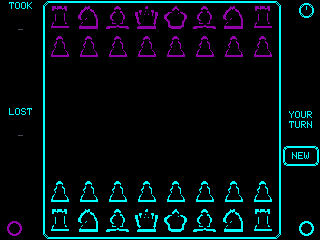
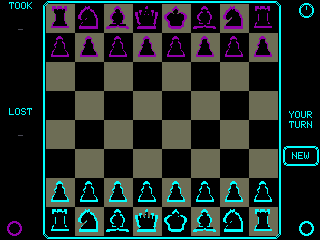
Stable: revert board color, 8-bit RGB332 capture

Changed region(s): [[0.125, 0.0, 0.875, 0.9917]]

diff --git a/screenshot.py b/screenshot.py
@@ -181,7 +181,7 @@ def capture(port, screen, outfile):
 
         ser.write(b"S")
         ser.flush()
-        marker, _ = wait_for_marker(ser, [b"RGB565:", b"OOM:"], timeout=20)
+        marker, _ = wait_for_marker(ser, [b"RGB332:", b"OOM:"], timeout=20)
 
         if marker is None:
             raise RuntimeError("No screenshot response from device.")
@@ -190,7 +190,7 @@ def capture(port, screen, outfile):
             raise RuntimeError(f"Device out of RAM: {info}")
 
         start = time.time()
-        total = W * H * 2  # 16-bit per pixel
+        total = W * H
         data = read_exact(ser, total)
         if len(data) < total:
             raise RuntimeError(f"Transfer stalled at {len(data)}/{total} bytes.")
@@ -199,18 +199,15 @@ def capture(port, screen, outfile):
     finally:
         ser.close()
 
-    # RGB565 → 24-bit BGR (BMP format)
+    # RGB332 → 24-bit BGR (BMP format)
     pixels = bytearray(W * H * 3)
-    for i in range(W * H):
-        lo = data[i*2]
-        hi = data[i*2+1]
-        c = (hi << 8) | lo
-        r5 = (c >> 11) & 0x1F
-        g6 = (c >> 5) & 0x3F
-        b5 = c & 0x1F
-        r8 = (r5 << 3) | (r5 >> 2)
-        g8 = (g6 << 2) | (g6 >> 4)
-        b8 = (b5 << 3) | (b5 >> 2)
+    for i, c in enumerate(data):
+        r3 = (c >> 5) & 0x07
+        g3 = (c >> 2) & 0x07
+        b2 = c & 0x03
+        r8 = (r3 << 5) | (r3 << 2) | (r3 >> 1)
+        g8 = (g3 << 5) | (g3 << 2) | (g3 >> 1)
+        b8 = (b2 << 6) | (b2 << 4) | (b2 << 2) | b2
         pixels[i*3+0] = b8
         pixels[i*3+1] = g8
         pixels[i*3+2] = r8

diff --git a/src/main.cpp b/src/main.cpp
@@ -619,11 +619,11 @@ static bool hitBoard(int &sq) {
 
 // ── Serial capture ───────────────────────────────────────────────────────
 static void handleSerialCapture() {
-    TFT_eSprite spr(&tft); spr.setColorDepth(16);
-    uint16_t *fb=(uint16_t*)spr.createSprite(SCREEN_W,SCREEN_H);
+    TFT_eSprite spr(&tft); spr.setColorDepth(8);
+    uint8_t *fb=(uint8_t*)spr.createSprite(SCREEN_W,SCREEN_H);
     if (!fb) { Serial.print("OOM:"); Serial.println(ESP.getMaxAllocHeap()); return; }
     auto *pv=disp; disp=&spr; redrawAll(); disp=pv;
-    Serial.print("RGB565:"); Serial.write((uint8_t*)fb,SCREEN_W*SCREEN_H*2); Serial.flush();
+    Serial.print("RGB332:"); Serial.write(fb,SCREEN_W*SCREEN_H); Serial.flush();
     spr.deleteSprite();
 }
 

diff --git a/src/config.h b/src/config.h
@@ -89,7 +89,7 @@
 #define COL_AMBER       0xFD40u
 
 // Board squares — very dark
-#define COL_LIGHT_SQ    0x1082    // dark gray (was 0x2104)
+#define COL_LIGHT_SQ    0x1082    // near-black
 #define COL_DARK_SQ     0x0000    // pure black
 #define COL_SELECTED    0xA124    // amber
 #define COL_LEGAL_MOVE  0x2C44